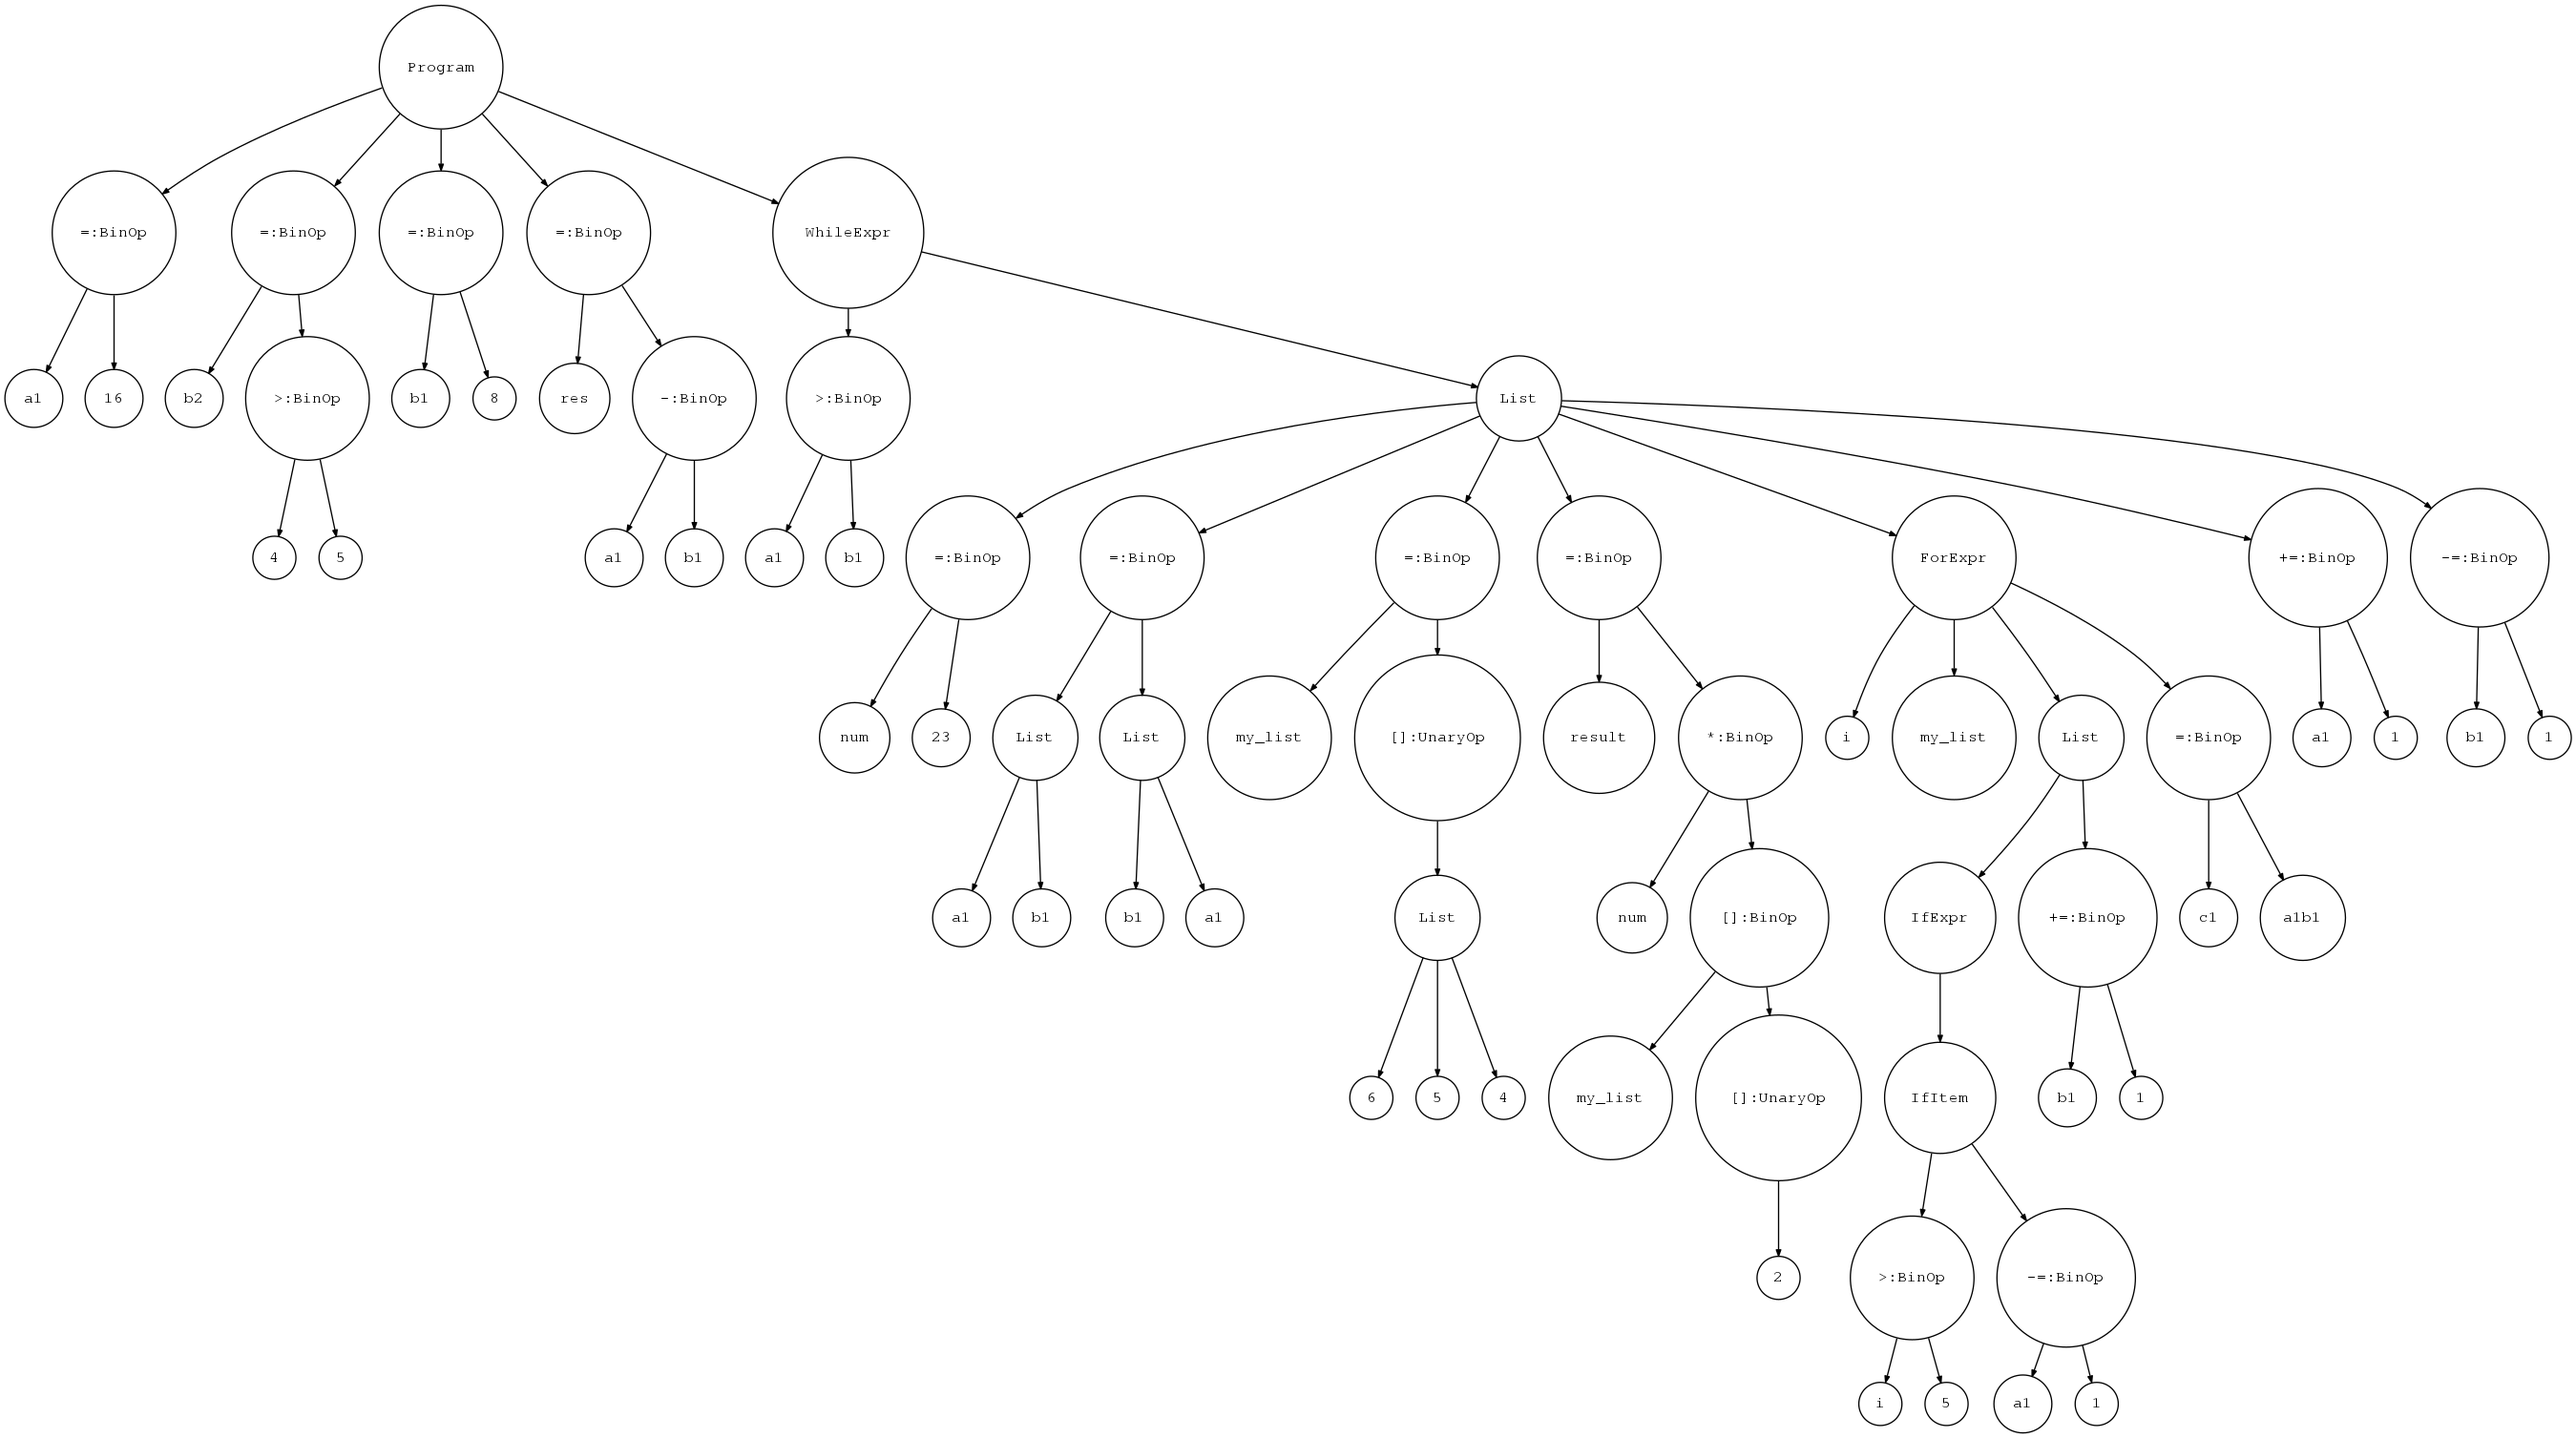
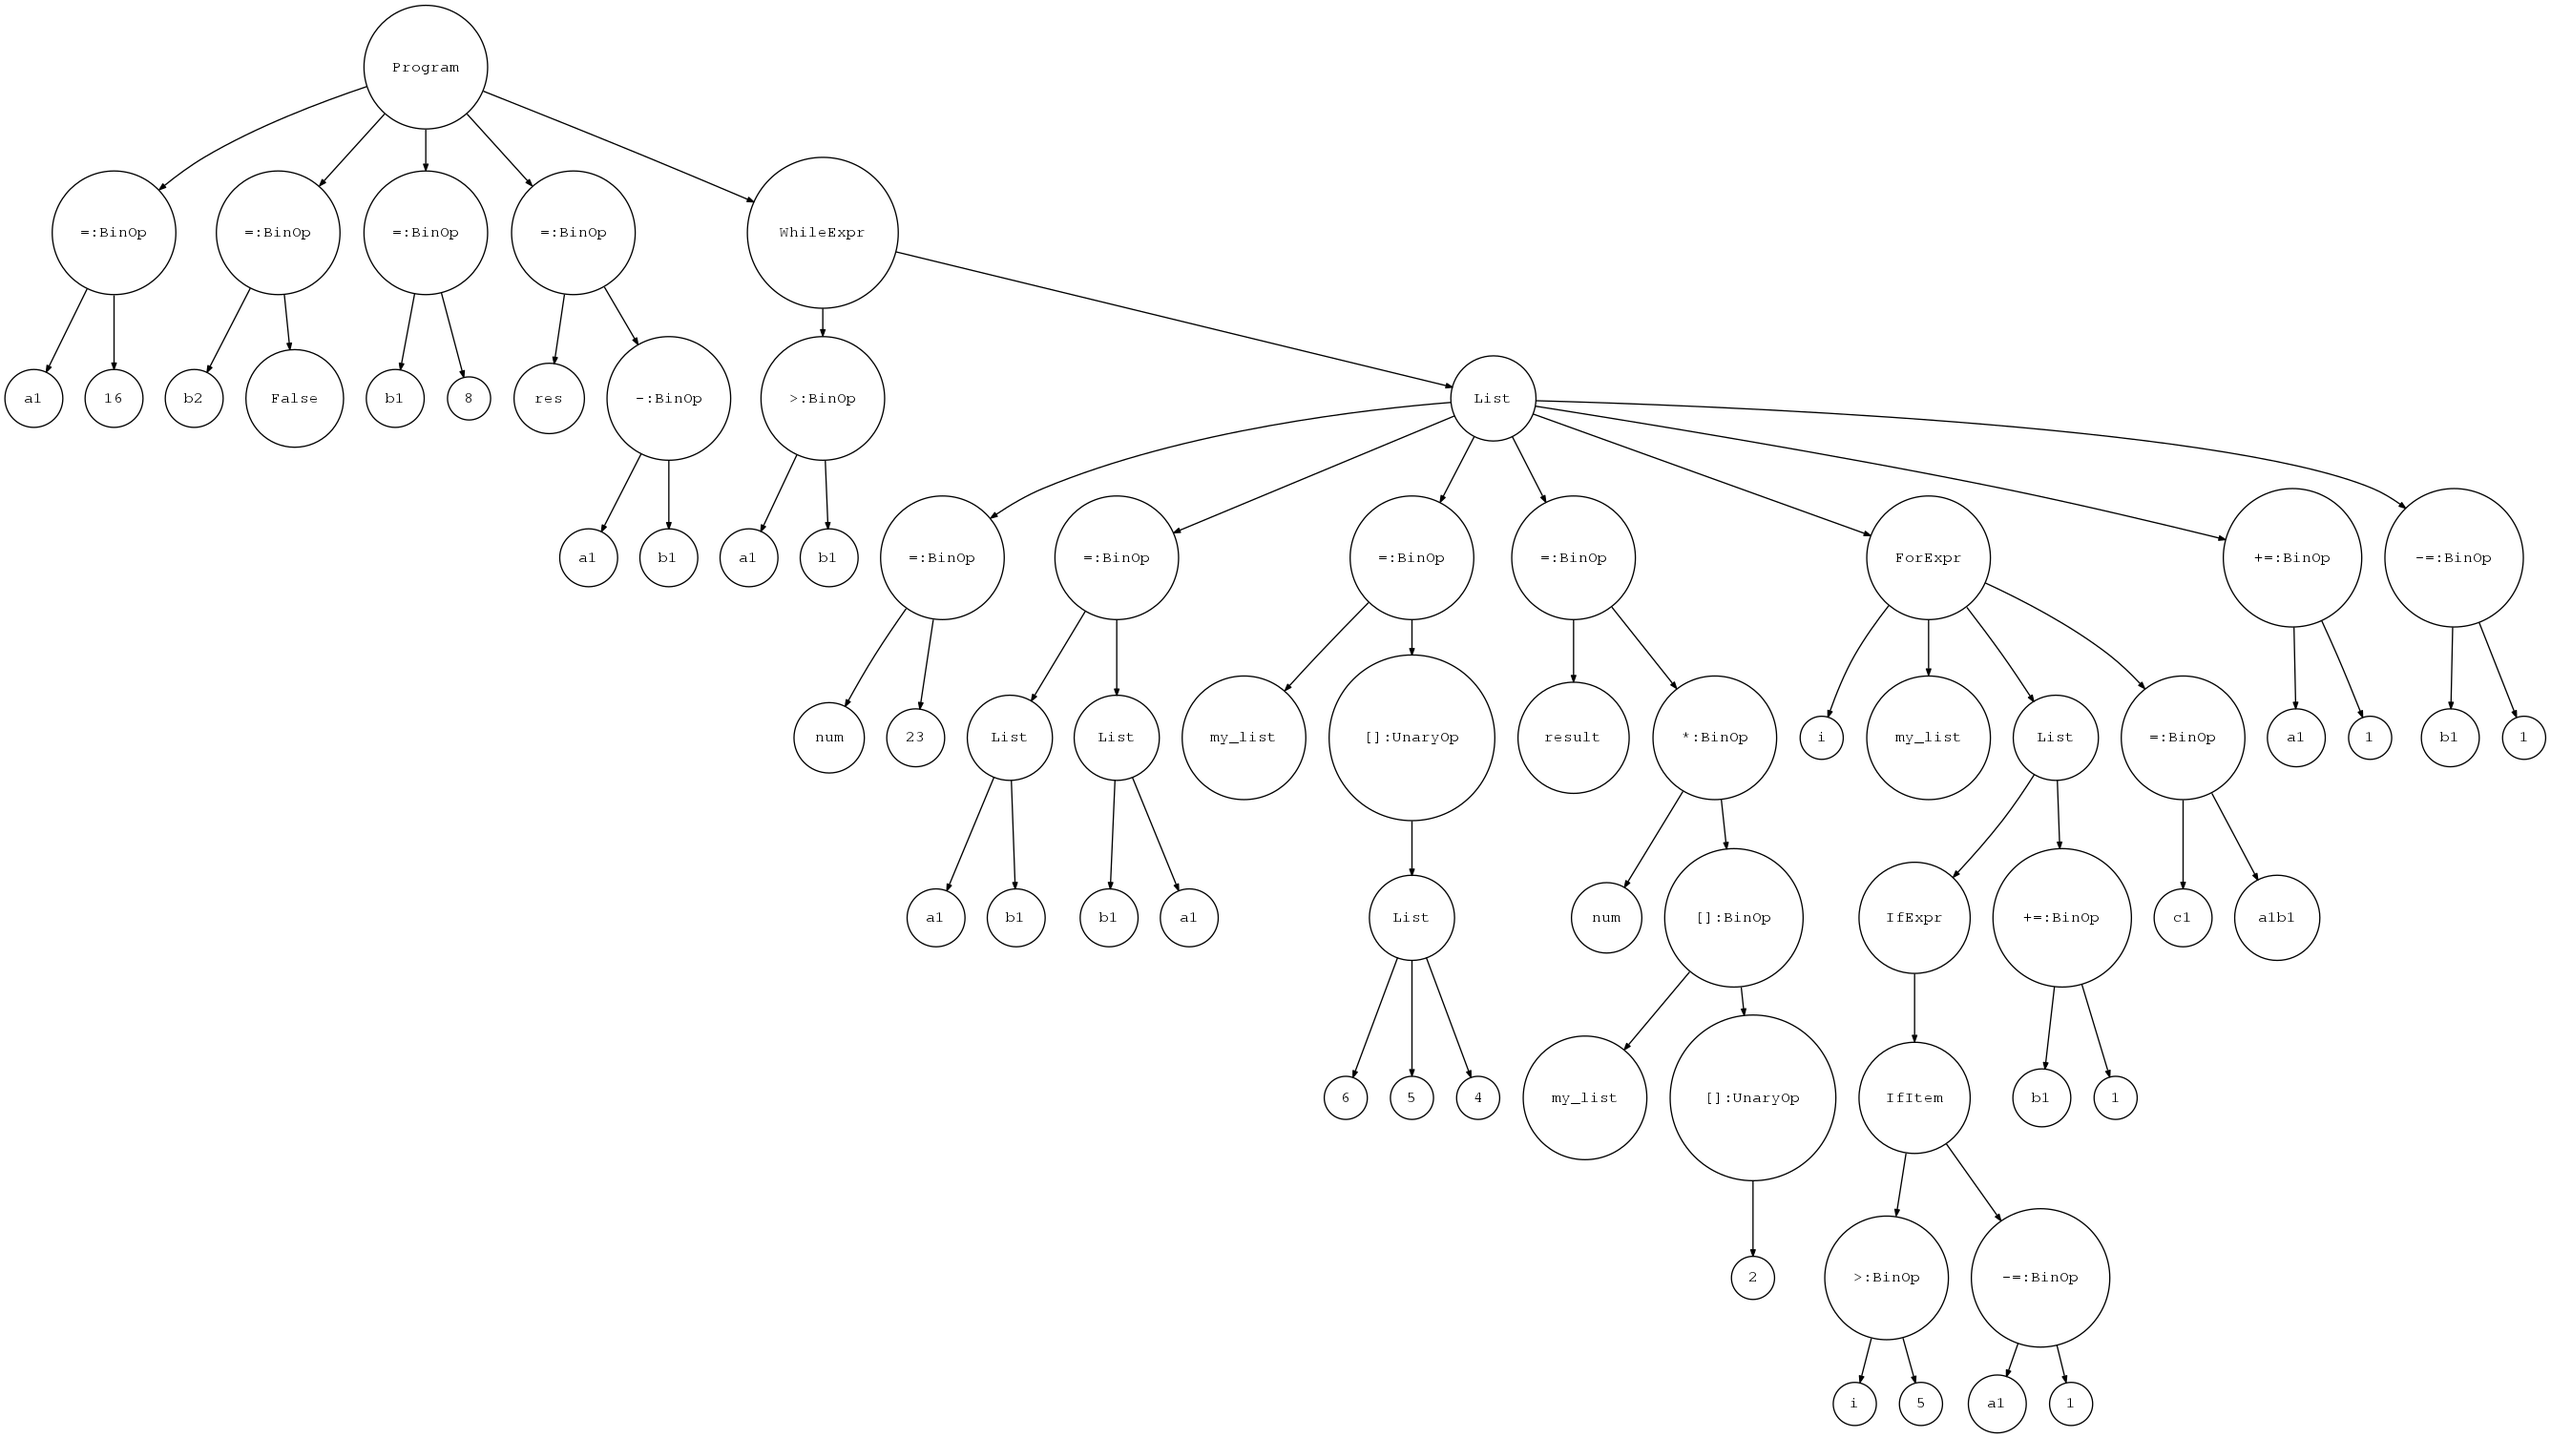
优化bool运算

diff --git a/parser.py b/parser.py
@@ -121,14 +121,17 @@ class Parser(object):
             # node = BinOp(node, self.comp_op(), self.expr())
             op = self.comp_op()
             node2 = self.expr()
+            if isinstance(node.value, (int, complex, float)) and isinstance(node2.value, (int, complex, float)):
+                node.value = BINARY_OPERATORS[op.value](
+                    node.value, node2.value)
             # if op.type == COMP_OP:
             #     try:
             #         node.value = BINARY_OPERATORS[op.value](
             #             node.value, node2.value)
             #     except Exception:
             #         node = BinOp(node, op, node2)
-            # else:
-            node = BinOp(node, op, node2)
+            else:
+                node = BinOp(node, op, node2)
         return node
 
     def not_test(self):
